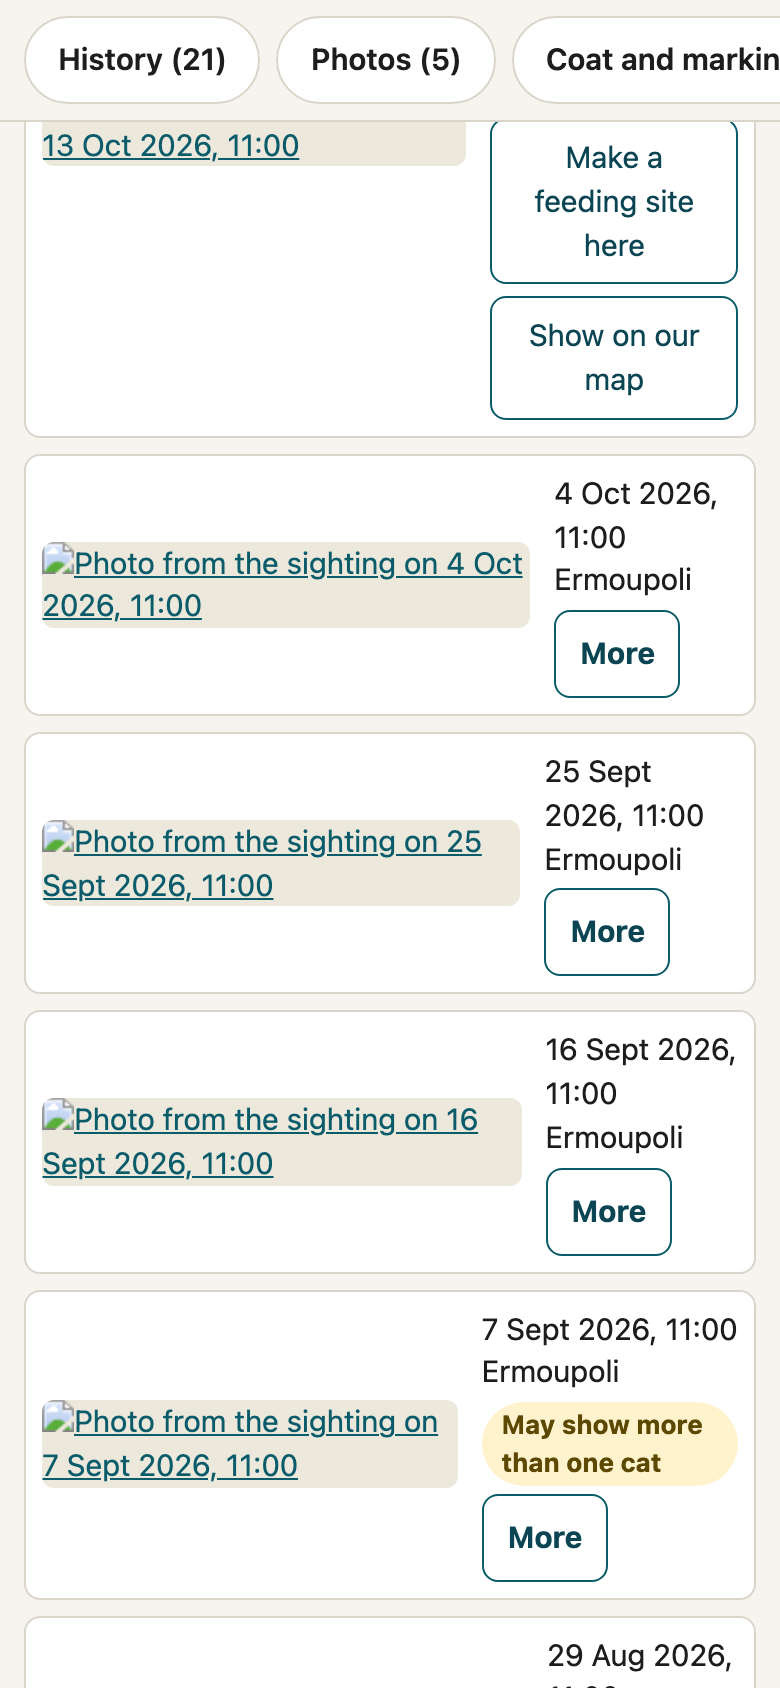
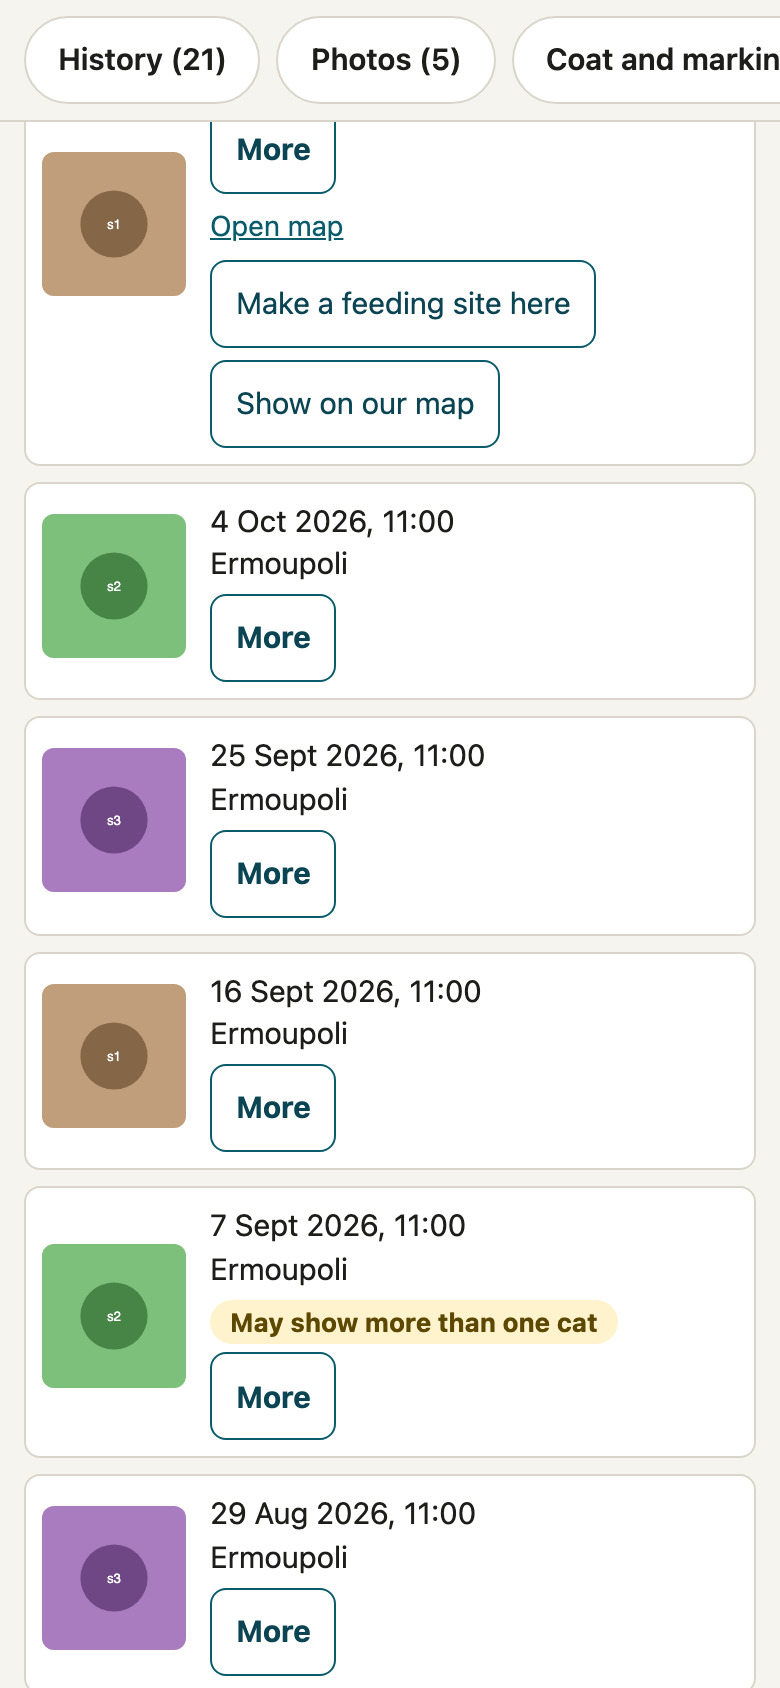
SYC-602 Task 1.5 fix round 1: one facts panel, map in the 340px column, 4:3 photo, jump-link scroll margin, real placeholder pictures in screenshots

diff --git a/artifacts/api-server/src/lib/teamPages/layout.ts b/artifacts/api-server/src/lib/teamPages/layout.ts
@@ -208,10 +208,12 @@ form.takeout button{font:inherit;font-size:15px;min-height:44px;padding:8px 16px
 form.sightact{margin:6px 0 0}
 form.sightact button{font:inherit;font-size:15px;min-height:44px;padding:8px 12px;border-radius:8px;border:1px solid #0b5c6b;background:#fff;color:#0b4553;cursor:pointer}
 /* The cat page's summary (SYC-396 spec §7.1): the plain facts, the strip of photos, the small map. */
-.catfacts{display:grid;grid-template-columns:minmax(0,1fr);gap:8px;margin:12px 0}
-.catfacts .fact{background:#fff;border:1px solid #d9d5ca;border-radius:8px;padding:8px 12px}
-.catfacts dt{margin:0;font-size:13px;font-weight:700;color:#55524a}
-.catfacts dd{margin:2px 0 0;font-size:16px;overflow-wrap:anywhere}
+.catfacts{display:block;grid-template-columns:none;margin:12px 0;background:#fff;border:1px solid #d9d5ca;border-radius:10px;padding:4px 14px}
+.catfacts .fact{display:grid;grid-template-columns:118px minmax(0,1fr);gap:10px;padding:10px 0;border-top:1px solid #efece5}
+.catfacts .fact:first-child{border-top:0}
+.catfacts dt{margin:0;font-size:14px;font-weight:600;color:#55524a}
+.catfacts dd{margin:0;font-size:16px;overflow-wrap:anywhere;min-width:0}
+@media (max-width:359px){.catfacts .fact{grid-template-columns:minmax(0,1fr);gap:2px}}
 .catfacts .mark{font-weight:400;align-items:flex-start}
 .catfacts .mark-icon{margin-top:3px}
 .catfacts .how{display:block;font-size:14px;color:#55524a}
@@ -237,6 +239,9 @@ li.statement.routine>details[open]>summary::before,.hownote[open]>summary::befor
 .catsummary>div{min-width:0}
 .jump{position:sticky;top:env(safe-area-inset-top,0px);z-index:5;background:#f6f4ef;border-bottom:1px solid #d9d5ca;margin:24px -12px 0;padding:8px 12px;display:flex;gap:8px;overflow-x:auto;white-space:nowrap}
 .jump a{display:inline-flex;align-items:center;flex:none;min-height:44px;padding:0 16px;border-radius:999px;background:#fff;border:1px solid #d9d5ca;text-decoration:none;font-weight:600;font-size:15px;color:#1d1d1b}
+.catsummary .photo.catmain{display:block;width:100%;max-width:none;max-height:none;aspect-ratio:4/3;object-fit:cover}
+.catsummary .photo.catmain.diedphoto{width:auto;max-width:100%;max-height:140px;aspect-ratio:auto}
+#history,#photos,#appearance,#issue-strip{scroll-margin-top:72px}
 .catmap{margin:8px 0}
 .catmap .hint{margin:4px 0 0}
 .catmap .mapcap{display:flex;justify-content:space-between;gap:8px;margin:4px 0 0;font-size:14px}
@@ -552,16 +557,17 @@ details.filters>summary{display:none}
 .fpanel{display:grid;grid-template-columns:repeat(auto-fit,minmax(220px,1fr));gap:0 24px;margin-top:0}
 }
 }
-/* A big screen: the cat page's photo, then the 512px map below (the map pictures come in fixed sizes, so it can't sit in the 340px photo column), the facts in the middle, "Update this cat" right (spec section 4). The title above spans all three. */
+/* A big screen: the cat page's photo, strip and map left (340px), the facts in the middle, "Update this cat" right (spec section 4). The title above spans all three. */
 @media (min-width:1000px){
-.catsummary{grid-template-columns:340px minmax(0,1fr) 260px;grid-template-areas:"photo facts actions" "map map actions";align-items:start;gap:0 28px}
-.catsummary.noactions{grid-template-columns:340px minmax(0,1fr);grid-template-areas:"photo facts" "map map"}
+.catsummary{grid-template-columns:340px minmax(0,1fr) 260px;grid-template-areas:"photo facts actions" "map facts actions";align-items:start;gap:0 28px}
+.catsummary.noactions{grid-template-columns:340px minmax(0,1fr);grid-template-areas:"photo facts" "map facts"}
 .catsummary .col-photo{grid-area:photo}
 .catsummary .col-facts{grid-area:facts}
 .catsummary .catactions{grid-area:actions}
 .catsummary .col-map{grid-area:map}
+.catmap .mapband.b256{display:none}
+.catmap .mapband.b164{display:block}
 .catsummary .col-facts>:first-child,.catsummary .catactions>:first-child{margin-top:12px}
-.catfacts{grid-template-columns:repeat(2,minmax(0,1fr))}
 .jump{margin:32px 0 0;border-radius:0}
 }
 `;
